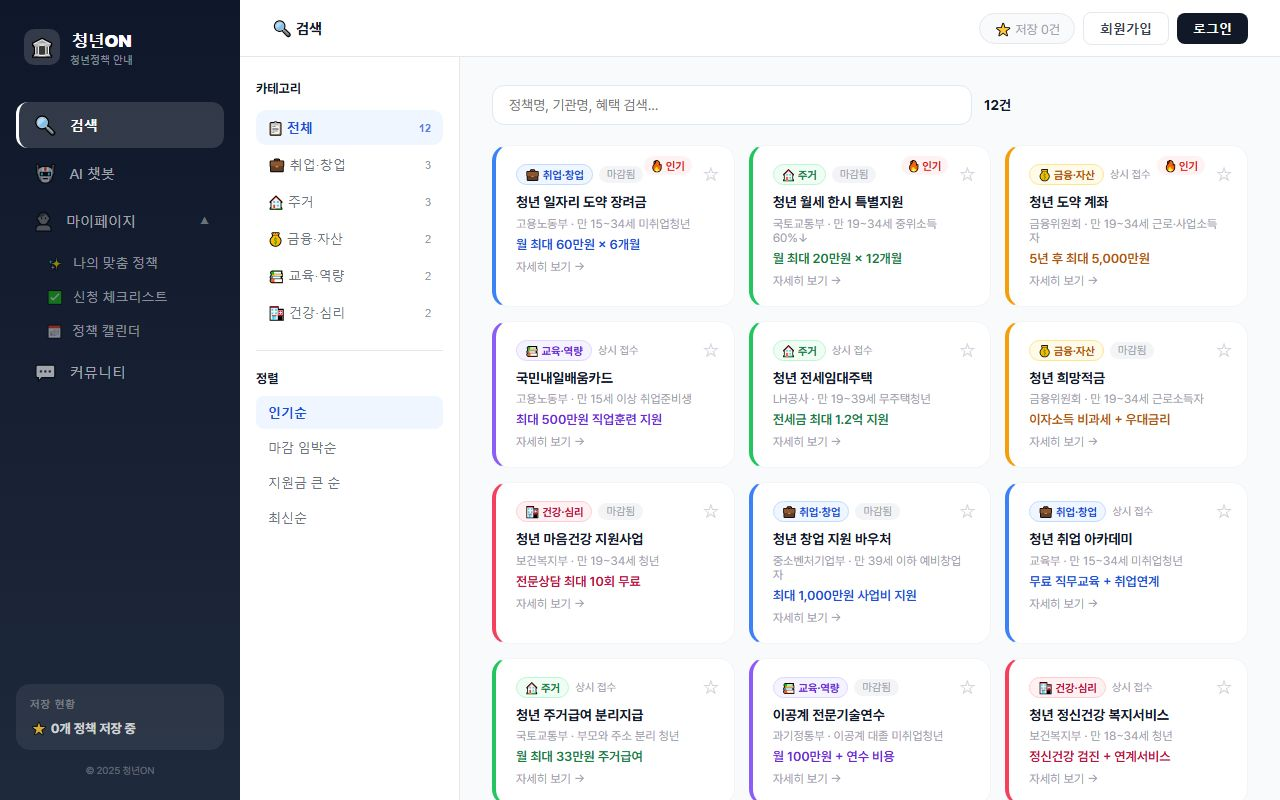
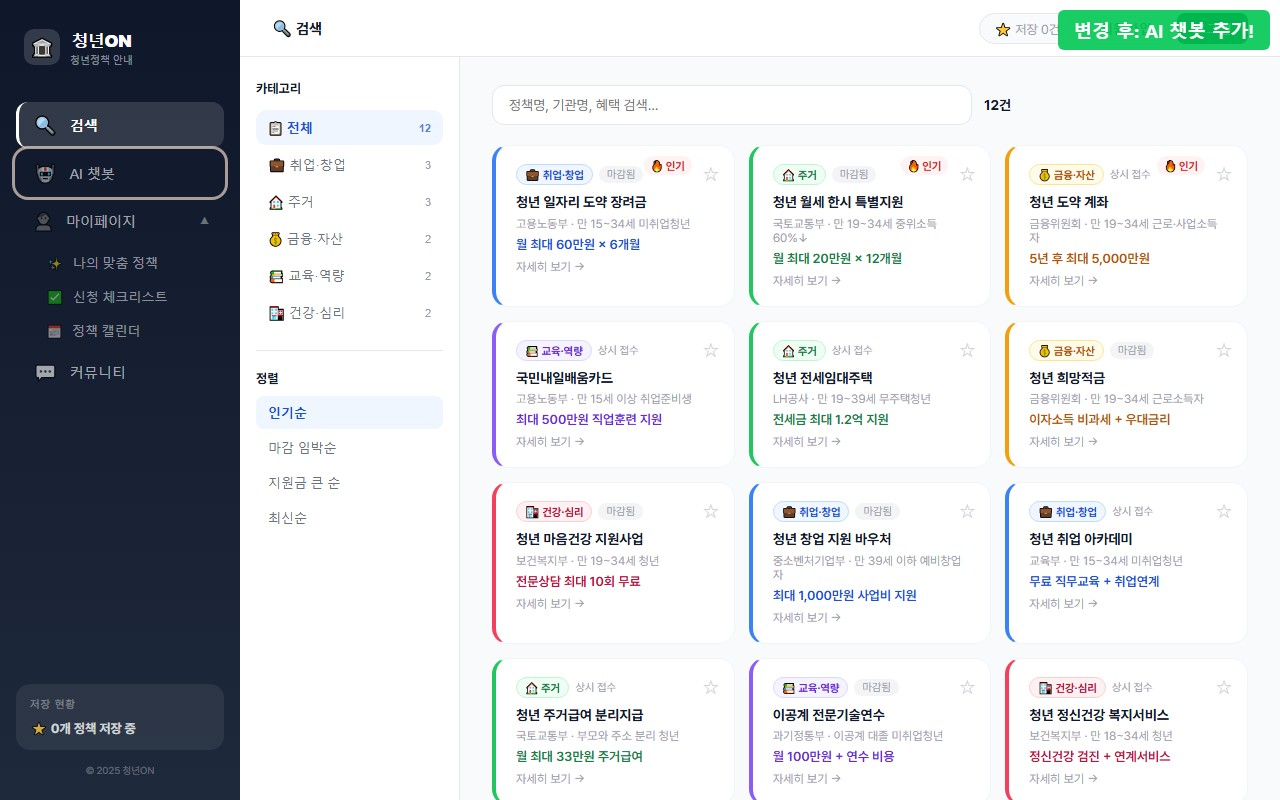
docs: README 중복 제거 + 주석 달린 스크린샷으로 교체
- before 스크린샷을 실제 GitHub Pages(챗봇 없음)에서 촬영
- 스크린샷에 빨간/초록 라벨 박스 추가
- 중복된 팀역할 테이블, 사이트 링크 섹션 통합
- 확인요청 + 해야할것 섹션 하나로 병합

Changed region(s): [[0.8125, 0.0, 1.0, 0.0625], [0.0, 0.2188, 0.1875, 0.25], [0.0312, 0.1562, 0.1562, 0.1875]]

diff --git a/README.md b/README.md
@@ -10,63 +10,10 @@
 
 ### 왜 이 작업을 했나요?
 
-**2026.06.10 팀 회의**에서 아래와 같이 역할을 나눴습니다:
-
-| 이름 | 맡은 일 |
-|------|---------|
-| 임종권 | 온통청년 API 연결, 챗봇 페이지 추가, 관리자 페이지 추가 |
-| 박수아 | 정책 비교 기능 방향 정리 |
-| 권규빈 | 디자인 방향, 컬러 조합 |
-| 최윤경 | 커뮤니티 기능, 전체 개발 총괄 |
-
-회의에서 "정책 비교 기능을 따로 만드는 것보다 **챗봇이 비교해주는 게 낫다**"는 결론이 나왔고,
+**2026.06.10 팀 회의**에서 "정책 비교 기능을 따로 만드는 것보다 **챗봇이 비교해주는 게 낫다**"는 결론이 나왔고,
 그래서 제가 AI 챗봇을 만들어서 이 브랜치에 넣었습니다.
 
 **목표:** 일요일(6/14)까지 완성 → 월요일(6/15) 13:20 교수님 미팅
-
----
-
-### 추가된 기능 요약
-
-| 기능 | 설명 |
-|------|------|
-| **AI 챗봇** | "27살 서울인데 월세 지원 있어?" 같이 말로 물어보면 AI가 맞춤 정책을 찾아줘요 |
-| **실시간 답변** | ChatGPT처럼 글자가 하나씩 나와요 (답변 기다리는 동안 안 답답함) |
-| **AI가 직접 정책 선별** | AI가 "이 사람한테 이 정책이 맞겠다" 판단해서 골라줘요 |
-| **모델 자동 선택** | 무료 AI 모델을 자동으로 골라줌 (비용 0원) |
-| **AI 안 될 때 자동 전환** | AI 서버에 문제가 생기면 → 나이/지역/분야 버튼 방식으로 자동 바뀜 (항상 작동) |
-| **관리자 페이지** | 오늘 몇 번 사용됐는지, 비용은 얼마인지 확인 가능 |
-| **정책 카드** | 추천된 정책을 보기 좋은 카드 형태로 표시 |
-
----
-
-### 사용한 기술 쉽게 설명
-
-#### Vercel이 뭔가요?
-
-**Vercel** = 우리 웹사이트를 인터넷에 올려주는 서비스 (무료)
-
-- 원래 GitHub Pages로 배포하고 있었는데, AI 챗봇은 서버가 필요해서 Vercel을 추가로 사용합니다
-- GitHub에 코드 올리면 자동으로 인터넷에 반영됨
-- 서버 컴퓨터를 따로 사지 않아도 됨
-
-#### OpenRouter가 뭔가요?
-
-**OpenRouter** = 여러 AI 모델을 한 곳에서 쓸 수 있는 서비스
-
-- 원래 강사님이 주신 **OpenAI API 키**를 쓰려고 했는데, 그게 **유료**이고 **충전량을 다 써버렸습니다**
-- 그래서 **무료 대안**을 찾았는데, 그게 OpenRouter의 `free` 옵션입니다
-- 무료 AI 모델을 자동으로 골라서 사용해주기 때문에 **비용이 0원**입니다
-- 단점: 무료라서 가끔 느릴 수 있음 (보통 5~15초, 최대 60초)
-
-#### 온통청년 API가 뭔가요?
-
-**온통청년** = 정부가 운영하는 청년정책 통합 사이트 (youthcenter.go.kr)
-
-- 전국 청년지원정책 **2,600건 이상**의 데이터를 제공하는 공공 API입니다
-- 우리 사이트는 이 API에서 정책 데이터를 받아와서 사용합니다
-- 일자리, 주거, 교육, 금융/복지, 참여 등 분야별 정책을 모두 포함
-- 데이터는 웹사이트를 배포할 때 한 번 받아오기 때문에 실시간으로 API를 호출하지 않아 안정적입니다
 
 ---
 
@@ -89,11 +36,19 @@
 - 추천된 정책이 카드로 예쁘게 표시됨
 - 기존 버튼 검색도 그대로 남아있음
 
-**직접 비교해보세요:**
-| 버전 | 링크 |
+---
+
+### 추가된 기능 요약
+
+| 기능 | 설명 |
 |------|------|
-| 변경 전 (기존) | https://yoon-kyoung.github.io/youthsupportpolicy/ |
-| 변경 후 (새 버전) | https://youthsupportpolicy-preview.vercel.app |
+| **AI 챗봇** | "27살 서울인데 월세 지원 있어?" 같이 말로 물어보면 AI가 맞춤 정책을 찾아줘요 |
+| **실시간 답변** | ChatGPT처럼 글자가 하나씩 나와요 (답변 기다리는 동안 안 답답함) |
+| **AI가 직접 정책 선별** | AI가 "이 사람한테 이 정책이 맞겠다" 판단해서 골라줘요 |
+| **모델 자동 선택** | 무료 AI 모델을 자동으로 골라줌 (비용 0원) |
+| **AI 안 될 때 자동 전환** | AI 서버에 문제가 생기면 → 나이/지역/분야 버튼 방식으로 자동 바뀜 (항상 작동) |
+| **관리자 페이지** | 오늘 몇 번 사용됐는지, 비용은 얼마인지 확인 가능 |
+| **정책 카드** | 추천된 정책을 보기 좋은 카드 형태로 표시 |
 
 ---
 
@@ -115,14 +70,43 @@ AI가 2,600개 정책 중에서 맞는 거 골라줌
 
 ---
 
-## 팀원분들이 확인해주셔야 할 것
+### 사용한 기술 쉽게 설명
 
-아래 링크에서 직접 써보시고 괜찮은지 확인해주세요!
+#### Vercel이 뭔가요?
+
+**Vercel** = 우리 웹사이트를 인터넷에 올려주는 서비스 (무료)
+
+- 원래 GitHub Pages로 배포하고 있었는데, AI 챗봇은 서버가 필요해서 Vercel을 추가로 사용합니다
+- GitHub에 코드 올리면 자동으로 인터넷에 반영됨
+
+#### OpenRouter가 뭔가요?
+
+**OpenRouter** = 여러 AI 모델을 한 곳에서 쓸 수 있는 서비스
+
+- 원래 강사님이 주신 **OpenAI API 키**를 쓰려고 했는데, 그게 **유료**이고 **충전량을 다 써버렸습니다**
+- 그래서 **무료 대안**을 찾았는데, 그게 OpenRouter의 `free` 옵션입니다
+- 무료 AI 모델을 자동으로 골라서 사용해주기 때문에 **비용이 0원**입니다
+- 단점: 무료라서 가끔 느릴 수 있음 (보통 5~15초, 최대 60초)
+
+#### 온통청년 API가 뭔가요?
+
+**온통청년** = 정부가 운영하는 청년정책 통합 사이트 (youthcenter.go.kr)
+
+- 전국 청년지원정책 **2,600건 이상**의 데이터를 제공하는 공공 API입니다
+- 우리 사이트는 이 API에서 정책 데이터를 받아와서 사용합니다
+- 일자리, 주거, 교육, 금융/복지, 참여 등 분야별 정책을 모두 포함
+
+---
+
+## 팀원분들 확인 부탁드려요!
+
+아래 링크에서 직접 써보시고 괜찮은지 확인해주세요:
 
 | 뭘 확인하면 되나요? | 링크 |
 |---------------------|------|
 | 챗봇 써보기 | https://youthsupportpolicy-preview.vercel.app |
 | 관리자 페이지 보기 | https://youthsupportpolicy-preview.vercel.app/#admin |
+| 기존 버전 비교 | https://yoon-kyoung.github.io/youthsupportpolicy/ |
 
 **체크리스트:**
 
@@ -131,32 +115,10 @@ AI가 2,600개 정책 중에서 맞는 거 골라줌
 - [ ] 화면이 깨지거나 이상한 부분 없나요?
 - [ ] 기존 정책 검색 기능은 그대로 잘 되나요?
 
----
-
-## 팀원분들이 해주셔야 할 것
-
-### 1. 위 링크에서 테스트해보기
-- 챗봇에 아무 질문이나 해보세요 (예: "25살 경기도 취업 준비 중")
-- 이상한 점 있으면 종권이한테 말해주세요
-
-### 2. 동의해주기
-- 확인 다 했으면 **"괜찮다, 합치자"** 한마디 해주시면 됩니다
-- GitHub에서 댓글 달아도 되고, 카톡으로 말해도 됩니다
-
-### 3. 합치기 (merge)
-- 팀원 모두 동의하면 이 브랜치를 **main(메인)**에 합칩니다
-- 합친다 = 우리 웹사이트 최종 버전에 챗봇이 추가된다는 뜻이에요
-- 합치는 건 제가 할게요, 동의만 해주시면 됩니다!
+확인 다 했으면 **"괜찮다, 합치자"** 한마디 해주시면 됩니다 (GitHub 댓글 or 카톡).
+합치는 건 제가 할게요!
 
 ---
-
-## 사이트 주소
-
-| 용도 | 링크 |
-|------|------|
-| 미리보기 (지금 테스트용) | https://youthsupportpolicy-preview.vercel.app |
-| 관리자 페이지 | https://youthsupportpolicy-preview.vercel.app/#admin |
-| GitHub Pages (메인 버전) | https://yoon-kyoung.github.io/youthsupportpolicy/ |
 
 ## 팀 역할 (6/10 회의 기준)
 
@@ -186,6 +148,7 @@ npm run dev
 | 기술 | 설명 |
 |------|------|
 | React + Vite | 웹사이트 만드는 도구 |
-| Vercel | 웹사이트를 인터넷에 올려주는 서비스 (무료) |
-| OpenRouter API | 무료 AI 모델 서비스 (강사님 OpenAI 대신 사용) |
-| Google Sheets | 사용량 기록용 (무료 데이터베이스 대용) |
+| Vercel | 웹사이트 + AI 서버 배포 (무료) |
+| OpenRouter API | 무료 AI 모델 서비스 |
+| 온통청년 API | 정부 청년정책 데이터 (2,600건+) |
+| Google Sheets | 사용량 기록용 (무료 DB 대용) |